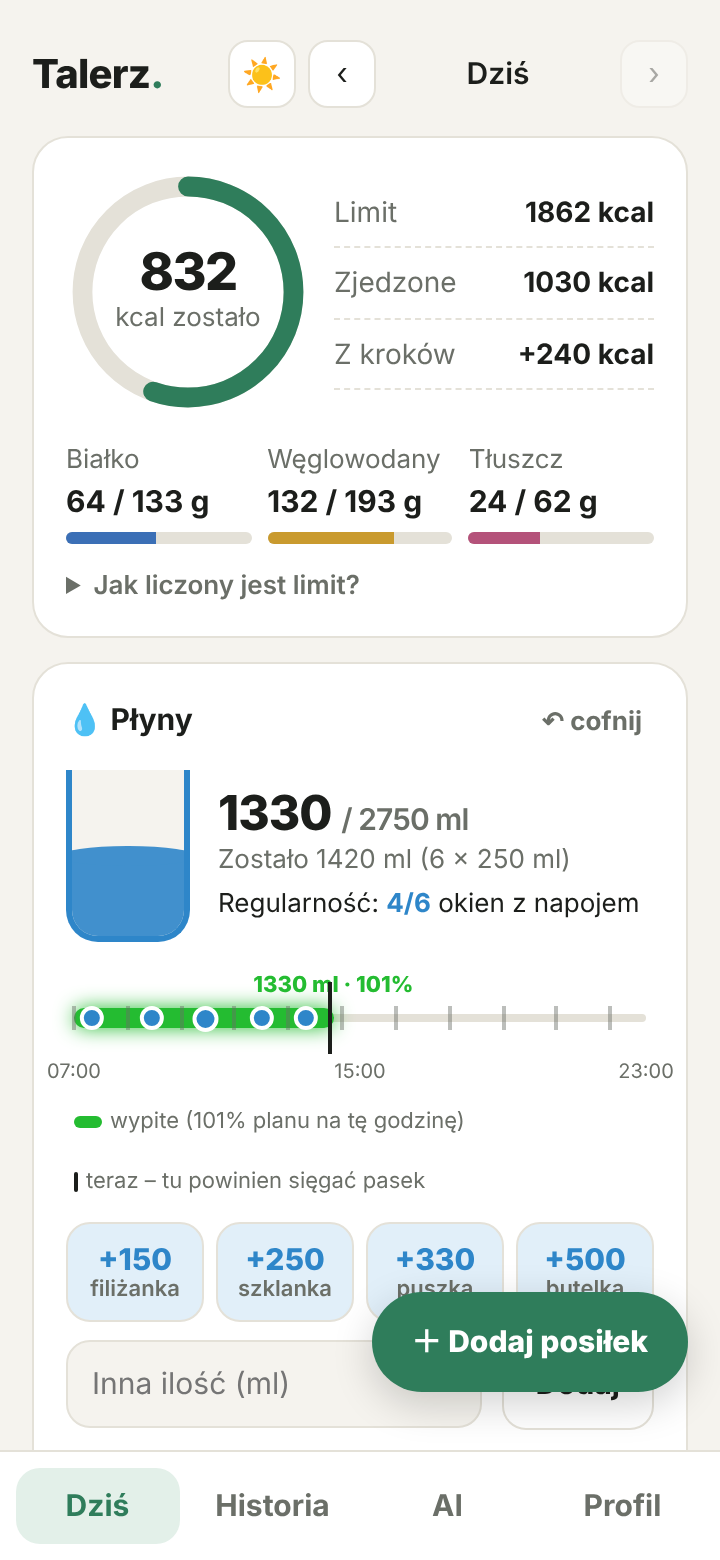
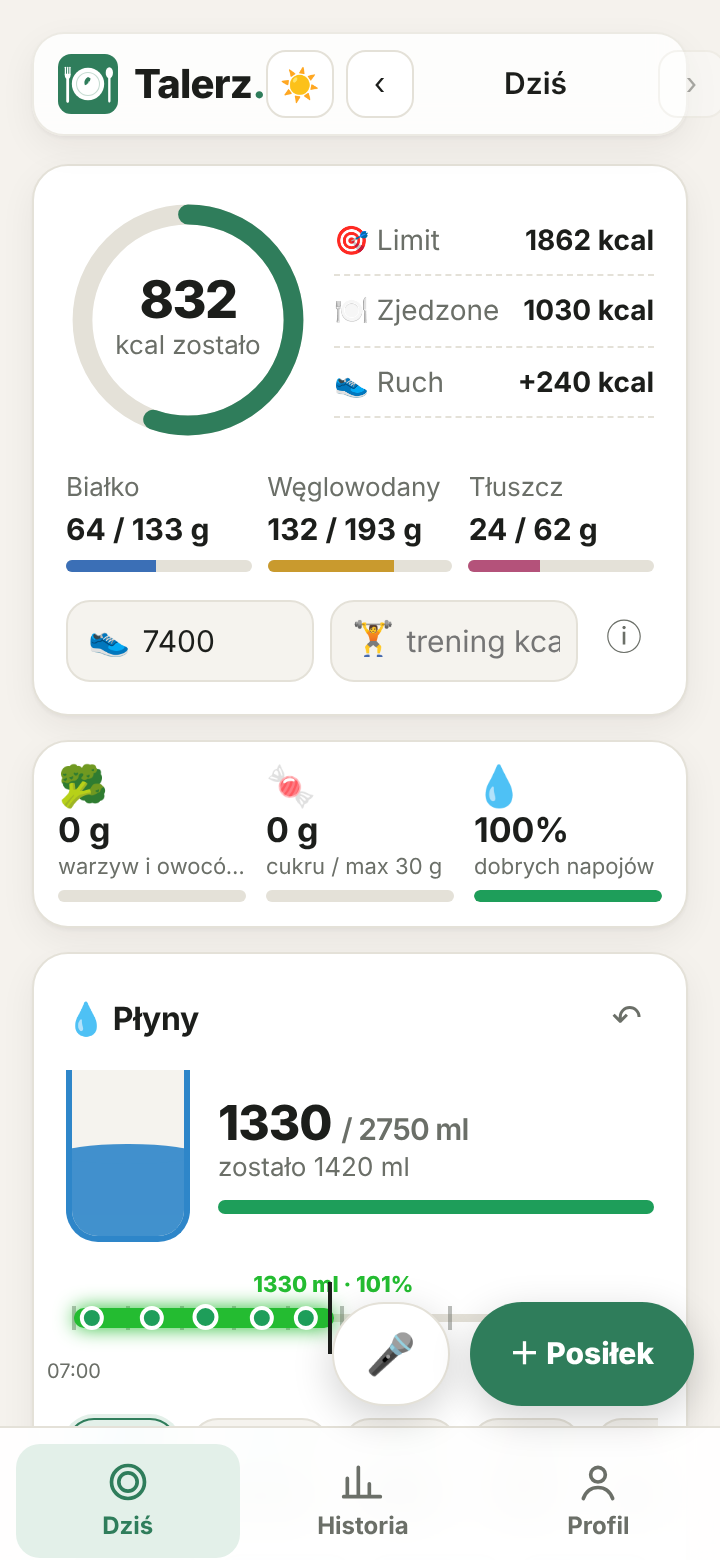
Add files via upload

Changed region(s): [[0.0, 0.0308, 0.9778, 1.0], [0.6111, 0.9538, 0.6417, 0.9846]]

diff --git a/index.html b/index.html
@@ -323,6 +323,17 @@
   .kst{font-family:Manrope,system-ui,sans-serif;font-size:12px;margin-left:4px}
   .keyitem .k{font-family:ui-monospace,monospace;white-space:nowrap;overflow:hidden;text-overflow:ellipsis}
   @media (max-width:380px){ .dchip{min-width:56px} .grid3{gap:6px} .pf span{font-size:11px} .seg3 button{font-size:12.5px} }
+  .fabs{position:fixed;right:max(16px,calc(50% - 264px));bottom:84px;display:flex;gap:10px;z-index:15}
+  .fab2{border:0;border-radius:999px;height:52px;min-width:52px;padding:0 16px;background:var(--card);color:var(--ink);font-weight:800;font-size:20px;box-shadow:0 6px 20px rgba(0,0,0,.18);cursor:pointer;border:1px solid var(--line)}
+  .fab2.main{background:var(--accent);color:#fff;font-size:15px;border:0;padding:0 20px}
+  .pick{display:grid;grid-template-columns:1fr 1fr;gap:8px}
+  .picktile{position:relative;display:flex;flex-direction:column;align-items:center;justify-content:center;gap:4px;height:118px;border:2px dashed var(--line);border-radius:16px;background:var(--card);cursor:pointer;overflow:hidden;color:var(--ink);font:inherit;padding:0}
+  .picktile .pi{font-size:34px;line-height:1}
+  .picktile img{position:absolute;inset:0;width:100%;height:100%;object-fit:cover;border-radius:0;max-height:none}
+  #micBtn.rec{border-color:#D9443B;border-style:solid;background:color-mix(in srgb,#D9443B 12%,var(--card))}
+  #micBtn.rec .pi{animation:micpulse 1s ease-in-out infinite}
+  @keyframes micpulse{50%{transform:scale(1.18)}}
+  .slowbox{margin-top:8px;display:flex;gap:6px;flex-wrap:wrap;align-items:center}
   .toast{position:fixed;left:50%;bottom:150px;transform:translateX(-50%);background:var(--ink);color:var(--bg);padding:10px 16px;border-radius:12px;font-weight:600;font-size:14px;z-index:40;opacity:0;transition:opacity .2s;pointer-events:none}
   .toast.on{opacity:1}
 </style>
@@ -330,7 +341,7 @@
 <body>
 <div class="wrap">
   <header class="top">
-    <div class="brand"><svg width="30" height="30" viewBox="0 0 64 64" aria-hidden="true"><circle cx="32" cy="32" r="29" fill="var(--accent)"/><circle cx="32" cy="32" r="21" fill="var(--card)"/><circle cx="32" cy="32" r="14" fill="none" stroke="var(--accent)" stroke-width="2" opacity=".35"/><path d="M32 22c-5 3-7 8-5 13 5-1 8-5 9-10-1-1-2-2-4-3z" fill="var(--accent)"/></svg><span>Talerz<span>.</span></span></div>
+    <div class="brand"><svg width="30" height="30" aria-hidden="true" viewBox="0 0 512 512"><rect width="512" height="512" rx="112" fill="var(--accent)"/> <circle cx="256" cy="256" r="138" fill="var(--card)"/> <circle cx="256" cy="256" r="98" fill="none" stroke="var(--accent)" stroke-width="9" opacity=".28"/> <path d="M256 196c-26 14-38 42-26 70 28-5 44-28 48-56-6-6-13-11-22-14z" fill="var(--accent)"/> <path d="M252 272c2-14 6-26 14-38" stroke="var(--card)" stroke-width="6" stroke-linecap="round" fill="none"/> <g fill="var(--card)"> <rect x="58" y="108" width="11" height="74" rx="5.5"/> <rect x="77" y="108" width="11" height="74" rx="5.5"/> <rect x="96" y="108" width="11" height="74" rx="5.5"/> <path d="M58 168h49v14c0 15-8 25-12.5 29V400c0 9-5 16-12 16s-12-7-12-16V211c-4.5-4-12.5-14-12.5-29z"/> </g> <g fill="var(--card)"> <ellipse cx="438" cy="160" rx="31" ry="48"/> <path d="M428 200h20v198c0 9-4 16-10 16s-10-7-10-16z"/> </g></svg><span>Talerz<span>.</span></span></div>
     <div class="row" style="gap:6px">
       <button class="themebtn" id="themeBtn" aria-label="Tryb jasny/ciemny"></button>
       <div class="datenav" id="datenav">
@@ -566,7 +577,7 @@
   </section>
 </div>
 
-<button class="fab hidden" id="fab" aria-label="Dodaj posiłek">📷 Posiłek</button>
+<div class="fabs hidden" id="fab"><button class="fab2" id="fabMic" aria-label="Powiedz, co jesz">🎤</button><button class="fab2 main" id="fabAdd" aria-label="Dodaj posiłek">＋ Posiłek</button></div>
 
 <nav class="tabs"><div class="in">
   <button data-tab="today" class="on"><svg viewBox="0 0 24 24" fill="none" stroke="currentColor" stroke-width="2" stroke-linecap="round" stroke-linejoin="round" aria-hidden="true"><circle cx='12' cy='12' r='9'/><circle cx='12' cy='12' r='5'/></svg>Dziś</button>
@@ -579,14 +590,17 @@
   <div class="sheet" role="dialog" aria-modal="true" aria-labelledby="sheetTitle">
     <div class="row" style="justify-content:space-between"><h3 id="sheetTitle">🍽 Nowy posiłek</h3><button class="iconbtn" id="closeSheet" aria-label="Zamknij">✕</button></div>
 
-    <label class="drop" id="drop" for="photo">
-      <div id="dropTxt"><div style="font-size:34px">📷</div><b>Zrób zdjęcie</b></div>
-      <img id="preview" class="hidden" alt="Podgląd posiłku">
-    </label>
+    <div class="pick">
+      <label class="picktile" id="drop" for="photo">
+        <div id="dropTxt"><div class="pi">📷</div><b>Zdjęcie</b></div>
+        <img id="preview" class="hidden" alt="Podgląd posiłku">
+      </label>
+      <button class="picktile" id="micBtn" type="button"><div class="pi" id="micIcon">🎤</div><b id="micLabel">Powiedz</b></button>
+    </div>
     <input type="file" id="photo" accept="image/*" capture="environment" class="hidden">
     <div class="row" style="margin-top:8px">
-      <input id="hint" type="text" placeholder="💬 np. duża porcja, smażone">
-      <button class="btn" id="analyze" disabled aria-label="Policz ponownie">↻</button>
+      <input id="hint" type="text" enterkeyhint="send" placeholder="💬 np. 2 jajka, kromka chleba, kawa z mlekiem">
+      <button class="btn" id="analyze" disabled aria-label="Policz">➜</button>
     </div>
     <div id="aiStatus" class="small" style="margin-top:8px"></div>
     <button class="btn ghost block" id="manual" style="margin-top:8px">✍ Wpisz ręcznie</button>
@@ -620,7 +634,7 @@
 <div class="toast" id="toast"></div>
 <script>
 (() => {
-  const APP_VERSION = '11';
+  const APP_VERSION = '12';
   // ---------- narzędzia ----------
   const $ = id => document.getElementById(id);
   const r0 = n => Math.round(Number(n) || 0);
@@ -1052,13 +1066,14 @@
   function openSheet(){
     photoBlob = null; photoB64 = null; thumb = null; items = [];
     $('preview').classList.add('hidden'); $('dropTxt').classList.remove('hidden');
-    $('photo').value = ''; $('hint').value = ''; $('analyze').disabled = true; $('aiStatus').innerHTML = '';
+    $('photo').value = ''; $('hint').value = ''; $('analyze').disabled = true; $('aiStatus').innerHTML = ''; stopMic(true);
     $('result').classList.add('hidden'); $('mealName').value = ''; $('aiNotes').textContent = '';
     $('manual').classList.remove('hidden'); document.querySelectorAll('#result .card').forEach(n => n.remove()); $('addItem').classList.remove('hidden');
     $('sheetBg').classList.add('open');
   }
-  function closeSheet(){ if (aiAbort) aiAbort.abort(); $('sheetBg').classList.remove('open'); }
-  $('fab').onclick = openSheet;
+  function closeSheet(){ if (aiAbort) aiAbort.abort(); stopMic(true); $('sheetBg').classList.remove('open'); }
+  $('fabAdd').onclick = () => openSheet();
+  $('fabMic').onclick = () => { openSheet(); startMic(); };
   $('closeSheet').onclick = closeSheet;
   $('sheetBg').addEventListener('click', e => { if (e.target === $('sheetBg')) closeSheet(); });
   document.addEventListener('keydown', e => { if (e.key === 'Escape') { closeSheet(); $('drinkSheetBg').classList.remove('open'); } });
@@ -1074,7 +1089,7 @@
     const f = e.target.files && e.target.files[0]; if (!f) return;
     try {
       const im = await loadImage(f);
-      photoBlob = await scaled(im, 768, 0.8, false);
+      photoBlob = await scaled(im, 640, 0.78, false);
       photoB64 = blobToBase64(photoBlob);
       thumb = scaled(im, 160, 0.7, true);
       $('preview').src = scaled(im, 720, 0.8, true);
@@ -1091,6 +1106,12 @@ Każdemu składnikowi przypisz kategorię: ${CAT_LIST} (warzywa = warzywa i ziem
 Odpowiedz WYŁĄCZNIE poprawnym JSON-em:
 {"meal_name":"krótka nazwa po polsku","items":[{"name":"składnik po polsku","category":"warzywa","grams":120,"kcal":200,"protein":10.5,"carbs":20,"fat":8,"free_sugar":0}],"confidence":"niska|średnia|wysoka","notes":"max 8 słów po polsku"}
 Jeśli nie widać jedzenia: {"meal_name":"","items":[],"confidence":"niska","notes":"Nie widzę jedzenia"}`;
+  const PROMPT_TEXT = (desc) => `Jesteś dietetykiem. Użytkownik opisał słowami, co zjadł lub zje: "${desc.replace(/"/g,"'")}".
+Rozbij to na składniki. Gdy nie podano ilości, przyjmij typową porcję dorosłego (np. kromka chleba 35 g, jajko 55 g, łyżka masła 10 g, szklanka 250 ml). Oszacuj masę w gramach, kalorie, makroskładniki i cukry wolne (dodany cukier, miód, syropy, soki; NIE cukier naturalny z całych owoców, warzyw i mleka).
+Każdemu składnikowi przypisz kategorię: ${CAT_LIST} (przetworzone = smażone, fast food, wędliny, chipsy; slodycze = słodycze, ciasta, pączki, batony, lody; rafinowane = białe pieczywo, biały ryż, zwykły makaron). Napoje (kawa, herbata, sok, cola) też podaj jako składniki z kategorią inne.
+Odpowiedz WYŁĄCZNIE poprawnym JSON-em:
+{"meal_name":"krótka nazwa po polsku","items":[{"name":"składnik","category":"warzywa","grams":120,"kcal":200,"protein":10.5,"carbs":20,"fat":8,"free_sugar":0}],"confidence":"niska|średnia|wysoka","notes":"max 8 słów"}
+Jeśli opis nie dotyczy jedzenia: {"meal_name":"","items":[],"confidence":"niska","notes":"Nie rozpoznano posiłku"}`;
   function parseJson(txt){
     if (typeof txt !== 'string') return txt;
     const s = txt.indexOf('{'), e = txt.lastIndexOf('}');
@@ -1098,7 +1119,8 @@ Jeśli nie widać jedzenia: {"meal_name":"","items":[],"confidence":"niska","not
   }
 
   async function runAnalysis(){
-    if (!photoBlob) return;
+    const desc = $('hint').value.trim();
+    if (!photoBlob && !desc) return;
     const st = $('aiStatus');
     if (!hasAnyKey(aiCfg())) {
       st.innerHTML = '🔑 <a href="#" id="goAi">Dodaj klucz AI w Profilu</a> albo wpisz ręcznie.';
@@ -1106,24 +1128,74 @@ Jeśli nie widać jedzenia: {"meal_name":"","items":[],"confidence":"niska","not
       $('manual').classList.remove('hidden');
       return;
     }
+    if (aiAbort) aiAbort.abort();
     $('analyze').disabled = true;
     const t0 = performance.now();
-    st.innerHTML = `<span class="spinner"></span>&nbsp; Liczę… <span id="tick">0,0 s</span>`;
-    const tick = setInterval(() => { const el = $('tick'); if (el) el.textContent = ((performance.now()-t0)/1000).toFixed(1).replace('.',',') + ' s'; }, 100);
-    aiAbort = new AbortController();
+    const secs = () => ((performance.now()-t0)/1000).toFixed(1).replace('.',',');
+    st.innerHTML = `<span class="spinner"></span>&nbsp; Liczę… <span id="tick">0,0 s</span><span id="slow"></span>`;
+    const tick = setInterval(() => {
+      const el = $('tick'); if (el) el.textContent = secs() + ' s';
+      const sl = $('slow');
+      if (sl && !sl.dataset.on && performance.now() - t0 > 9000) {
+        sl.dataset.on = 1;
+        sl.innerHTML = `<div class="slowbox"><span class="muted">⏳ Długo?</span><button class="btn ghost" id="slowMic">🎤 Powiedz</button><button class="btn ghost" id="slowMan">✍ Ręcznie</button></div>`;
+        $('slowMic').onclick = () => { if (aiAbort) aiAbort.abort(); photoBlob = null; photoB64 = null; $('preview').classList.add('hidden'); $('dropTxt').classList.remove('hidden'); $('hint').value = ''; startMic(); };
+        $('slowMan').onclick = () => { if (aiAbort) aiAbort.abort(); st.innerHTML = ''; $('manual').click(); };
+      }
+    }, 100);
+    const ctrl = aiAbort = new AbortController();
     try {
-      const r = await askWithRotation(PROMPT($('hint').value.trim()), await photoB64, aiAbort.signal);
+      const r = photoBlob
+        ? await askWithRotation(PROMPT(desc), await photoB64, ctrl.signal, s2 => { const el = $('tick'); if (el && s2) el.textContent = s2; })
+        : await askWithRotation(PROMPT_TEXT(desc), null, ctrl.signal);
       const data = parseJson(r.text);
-      st.innerHTML = `<span class="status-ok">✓ ${((performance.now()-t0)/1000).toFixed(1).replace('.',',')} s</span>`;
+      st.innerHTML = `<span class="status-ok">✓ ${secs()} s</span>`;
       showResult(data);
+      $('manual').classList.add('hidden');
     } catch (e) {
-      if (e && e.name === 'AbortError') return;
+      if (e && e.name === 'AbortError') { if (aiAbort === ctrl) st.innerHTML = ''; return; }
       st.innerHTML = '<span class="status-err">⚠ ' + esc(e && e.message || 'Nie udało się.') + '</span>';
       $('manual').classList.remove('hidden');
-    } finally { clearInterval(tick); $('analyze').disabled = false; aiAbort = null; }
+    } finally { clearInterval(tick); $('analyze').disabled = !photoBlob && !$('hint').value.trim(); if (aiAbort === ctrl) aiAbort = null; }
   }
+
+  // ---------- 🎤 mowa → tekst ----------
+  const SR = window.SpeechRecognition || window.webkitSpeechRecognition;
+  let rec = null, recText = '';
+  function setMicUi(on){
+    $('micBtn').classList.toggle('rec', on);
+    $('micIcon').textContent = on ? '🔴' : '🎤';
+    $('micLabel').textContent = on ? 'Słucham… (stop)' : 'Powiedz';
+  }
+  function stopMic(silent){
+    if (rec) { const r = rec; rec = null; if (silent) r.onend = null; try { r.stop(); } catch {} }
+    setMicUi(false);
+  }
+  function startMic(){
+    if (rec) { stopMic(); return; }
+    if (!SR) { $('hint').focus(); toast('🎤 Użyj mikrofonu na klawiaturze'); return; }
+    const base = photoBlob ? $('hint').value.trim() : '';
+    recText = '';
+    const r = rec = new SR();
+    r.lang = 'pl-PL'; r.interimResults = true; r.continuous = false; r.maxAlternatives = 1;
+    r.onresult = e => {
+      let txt = ''; for (let i = 0; i < e.results.length; i++) txt += e.results[i][0].transcript;
+      recText = txt.trim(); $('hint').value = (base ? base + ', ' : '') + recText;
+      $('analyze').disabled = false;
+    };
+    r.onerror = e => {
+      if (e.error === 'not-allowed' || e.error === 'service-not-allowed') toast('🎤 Zezwól na mikrofon w przeglądarce');
+      else if (e.error === 'no-speech') toast('🎤 Nic nie usłyszałem – spróbuj jeszcze raz');
+      else if (e.error !== 'aborted') toast('🎤 Mikrofon niedostępny – wpisz tekst');
+    };
+    r.onend = () => { const had = rec === r; rec = null; setMicUi(false); if (had && recText) runAnalysis(); };
+    try { r.start(); setMicUi(true); } catch { rec = null; setMicUi(false); $('hint').focus(); }
+  }
+  $('micBtn').onclick = () => startMic();
+
   $('analyze').onclick = runAnalysis;
-  $('hint').addEventListener('keydown', e => { if (e.key === 'Enter' && photoBlob) runAnalysis(); });
+  $('hint').addEventListener('input', () => { $('analyze').disabled = !photoBlob && !$('hint').value.trim(); });
+  $('hint').addEventListener('keydown', e => { if (e.key === 'Enter' && (photoBlob || $('hint').value.trim())) runAnalysis(); });
   $('manual').onclick = () => { showResult({ meal_name:'', items:[] }); $('manual').classList.add('hidden'); $('addItem').click(); };
 
   function showResult(data){
@@ -1483,18 +1555,22 @@ Jeśli nie widać jedzenia: {"meal_name":"","items":[],"confidence":"niska","not
     if (b64) parts.push({ inline_data:{ mime_type:'image/jpeg', data:b64 } });
     parts.push({ text:prompt });
     const model = (cfg.geminiModel || AI_DEFAULTS.geminiModel).trim().replace(/^models\//,'');
-    const call = (thinking) => fetch(`https://generativelanguage.googleapis.com/v1beta/models/${encodeURIComponent(model)}:generateContent`, {
+    const call = (level) => fetch(`https://generativelanguage.googleapis.com/v1beta/models/${encodeURIComponent(model)}:generateContent`, {
       method:'POST', signal,
       headers:{ 'content-type':'application/json', 'x-goog-api-key':key.trim() },
       body: JSON.stringify({ contents:[{ role:'user', parts }], generationConfig: Object.assign(
-        { temperature:0.2, responseMimeType:'application/json' },
-        thinking ? { thinkingConfig:{ thinkingLevel:'low' } } : {}) })
+        { temperature:0.2, responseMimeType:'application/json', maxOutputTokens:1200 },
+        level ? { thinkingConfig:{ thinkingLevel:level } } : {}) })
     });
-    // Tryb szybki: ogranicz „myślenie” modelu. Starsze modele nie znają tego parametru – wtedy ponów bez niego.
-    let resp = await call(!!cfg.fast);
-    if (!resp.ok && cfg.fast && resp.status === 400) {
+    // Jak najmniej „myślenia” = szybsza odpowiedź. Gdy model nie zna poziomu – próbuj kolejnego.
+    const remembered = cfg.thinkLevel && cfg.thinkLevel[model];
+    const levels = remembered !== undefined ? [remembered] : ['minimal', 'low', null];
+    let resp;
+    for (let li = 0; li < levels.length; li++) {
+      resp = await call(levels[li]);
+      if (resp.ok || resp.status !== 400) { if (resp.ok && remembered === undefined) { const c2 = aiCfg(); c2.thinkLevel = Object.assign({}, c2.thinkLevel, { [model]: levels[li] }); saveAiCfg(c2); } break; }
       const t = await resp.clone().text();
-      if (/thinking/i.test(t)) resp = await call(false);
+      if (!/thinking/i.test(t)) break;
     }
     if (!resp.ok) throw await classify(resp, 'Gemini');
     const j = await resp.json();
@@ -1507,25 +1583,43 @@ Jeśli nie widać jedzenia: {"meal_name":"","items":[],"confidence":"niska","not
 
 
   // Kolejno: wszystkie klucze Gemini, potem Claude. Po limicie – następny klucz.
-  async function askWithRotation(prompt, b64, signal){
+  // Kolejno: klucze Gemini, potem Claude. Po limicie – następny klucz; gdy model długo milczy – szybszy model.
+  const TIMEOUT_IMG = 18000, TIMEOUT_TXT = 12000;
+  function withTimeout(signal, ms){
+    const c = new AbortController();
+    const t = setTimeout(() => c.abort(new DOMException('timeout', 'TimeoutError')), ms);
+    if (signal) { if (signal.aborted) c.abort(signal.reason); else signal.addEventListener('abort', () => c.abort(signal.reason), { once:true }); }
+    return { signal:c.signal, done:() => clearTimeout(t), isTimeout:() => c.signal.aborted && !(signal && signal.aborted) };
+  }
+  async function askWithRotation(prompt, b64, signal, onSwitch){
     const notes = []; let nextFree = Infinity, lastErr = null, tried = 0;
+    const limitMs = b64 ? TIMEOUT_IMG : TIMEOUT_TXT;
     for (const prov of ['gemini', 'claude']) {
       const list = aiCfg().keys[prov];
       for (let i = 0; i < list.length; i++) {
         const k = list[i];
         if (!isUsable(k)) { if (k.until) nextFree = Math.min(nextFree, k.until); continue; }
         tried++;
-        for (let attempt = 0; attempt < 2; attempt++) {
+        let useLite = false;
+        for (let attempt = 0; attempt < 3; attempt++) {
+          const cfg = aiCfg();
+          if (useLite) { if (prov === 'gemini' && cfg.geminiLite) cfg.geminiModel = cfg.geminiLite; else break; }
+          const tw = withTimeout(signal, limitMs);
           try {
-            const text = await callProvider(prov, k.key, aiCfg(), prompt, b64, signal);
+            const text = await callProvider(prov, k.key, cfg, prompt, b64, tw.signal);
+            tw.done();
             const today = todayKey();
             markKey(prov, k.id, { state:'ok', until:0, note:'', usedDay:today, used:(k.usedDay === today ? (k.used || 0) : 0) + 1, lastOk:Date.now() });
             return { text, prov, key:k, idx:i, notes };
           } catch (e) {
+            tw.done();
+            if (tw.isTimeout()) { lastErr = new ApiErr('Model odpowiada zbyt długo.', 'overload'); notes.push('timeout');
+              if (!useLite && prov === 'gemini' && aiCfg().geminiLite) { useLite = true; if (onSwitch) onSwitch('⚡ szybszy model…'); continue; }
+              break; }
             if (e && e.name === 'AbortError') throw e;
             lastErr = e;
             const kind = e.kind || 'other';
-            if (kind === 'model' && attempt === 0) { await pickModel(prov, k.key, true); continue; }   // model wycofany – wybierz nowy i ponów
+            if (kind === 'model' && attempt === 0) { await pickModel(prov, k.key, true); continue; }
             if (kind === 'limit' || kind === 'credit') {
               const until = Date.now() + e.retryMs; nextFree = Math.min(nextFree, until);
               markKey(prov, k.id, { state:kind, until, note:e.message }); notes.push(kind);
@@ -1534,11 +1628,11 @@ Jeśli nie widać jedzenia: {"meal_name":"","items":[],"confidence":"niska","not
             break;
           }
         }
-        if (lastErr && lastErr.kind === 'overload') break;
+        if (lastErr && lastErr.kind === 'overload') break;   // ten sam serwer – spróbuj drugiego dostawcy
       }
     }
     if (!tried && nextFree === Infinity) throw new Error('Brak działającego klucza AI – sprawdź w Profilu.');
-    throw new Error((lastErr && lastErr.kind === 'overload' ? 'Serwer AI zajęty – spróbuj za chwilę.' : 'Limit kluczy AI wyczerpany.') + (nextFree < Infinity ? ` Wróci ok. ${hhmm(nextFree)}.` : ''));
+    throw new Error((lastErr && lastErr.kind === 'overload' ? 'AI odpowiada zbyt wolno – spróbuj 🎤 albo wpisz ręcznie.' : 'Limit kluczy AI wyczerpany.') + (nextFree < Infinity ? ` Wróci ok. ${hhmm(nextFree)}.` : ''));
   }
 
   async function listModels(provider, key){
@@ -1557,7 +1651,6 @@ Jeśli nie widać jedzenia: {"meal_name":"","items":[],"confidence":"niska","not
   }
 
 
-
   // Automatyczny wybór modelu: najnowszy stabilny Flash (Gemini) / Haiku (Claude)
   async function pickModel(prov, key, force){
     const c = aiCfg();
@@ -1570,6 +1663,8 @@ Jeśli nie widać jedzenia: {"meal_name":"","items":[],"confidence":"niska","not
         const stable = ms.filter(id => /flash/.test(id) && !/lite|preview|exp|thinking|8b/.test(id));
         const pool = stable.length ? stable : ms.filter(id => /flash/.test(id));
         best = pool.sort((a, b) => ver(b) - ver(a) || a.length - b.length)[0];
+        const lites = ms.filter(id => /flash-lite/.test(id) && !/preview|exp/.test(id)).sort((a, b) => ver(b) - ver(a) || a.length - b.length);
+        const c3 = aiCfg(); c3.geminiLite = lites[0] || null; saveAiCfg(c3);
       } else {
         best = ms.find(id => /haiku/.test(id)) || ms.find(id => /sonnet/.test(id)) || ms[0];
       }

diff --git a/sw.js b/sw.js
@@ -1,6 +1,6 @@
 // Service worker Talerza: działa offline, nie dotyka zapytań do API AI.
 // Po każdej zmianie plików aplikacji podbij numer wersji, żeby telefony pobrały nową wersję.
-const VERSION = 'talerz-v11';
+const VERSION = 'talerz-v12';
 const SHELL = [
   './',
   './index.html',

diff --git a/README.md b/README.md
@@ -129,6 +129,8 @@ Aplikacja ma 3 zakładki: **Dziś · Historia · Profil**. Profil i ustawienia z
   - pasek tempa na osi dnia;
   - pasek składu napojów;
   - zamiennik po słodkim napoju, np. „−139 kcal, −35 g cukru”;
+- ➕ dodawanie posiłku na 3 sposoby: **📷 zdjęcie**, **🎤 powiedz** (np. „dwa jajka i kromka chleba”) albo wpisz opis; przycisk 🎤 jest też obok „＋ Posiłek”. Rozpoznawanie mowy działa w Chrome, Edge i Safari; w innych przeglądarkach użyj mikrofonu na klawiaturze.
+- ⚡ szybsza analiza: mniejsze zdjęcie, minimalne „myślenie” modelu, a gdy model milczy ponad 18 s, aplikacja przełącza się na szybszy model (Flash-Lite) albo następny klucz. Po 9 s pojawia się skrót „🎤 Powiedz / ✍ Ręcznie”;
 - 🍽 posiłki z oceną (🟢 → 🔴) i podpowiedzią zamiennika przy słabych wyborach; kalorie ze słodkich napojów dochodzą tu automatycznie;
 - 🔥 seria dni, tydzień, postęp do celu wagi, wskazówka dnia, odznaki.
 
